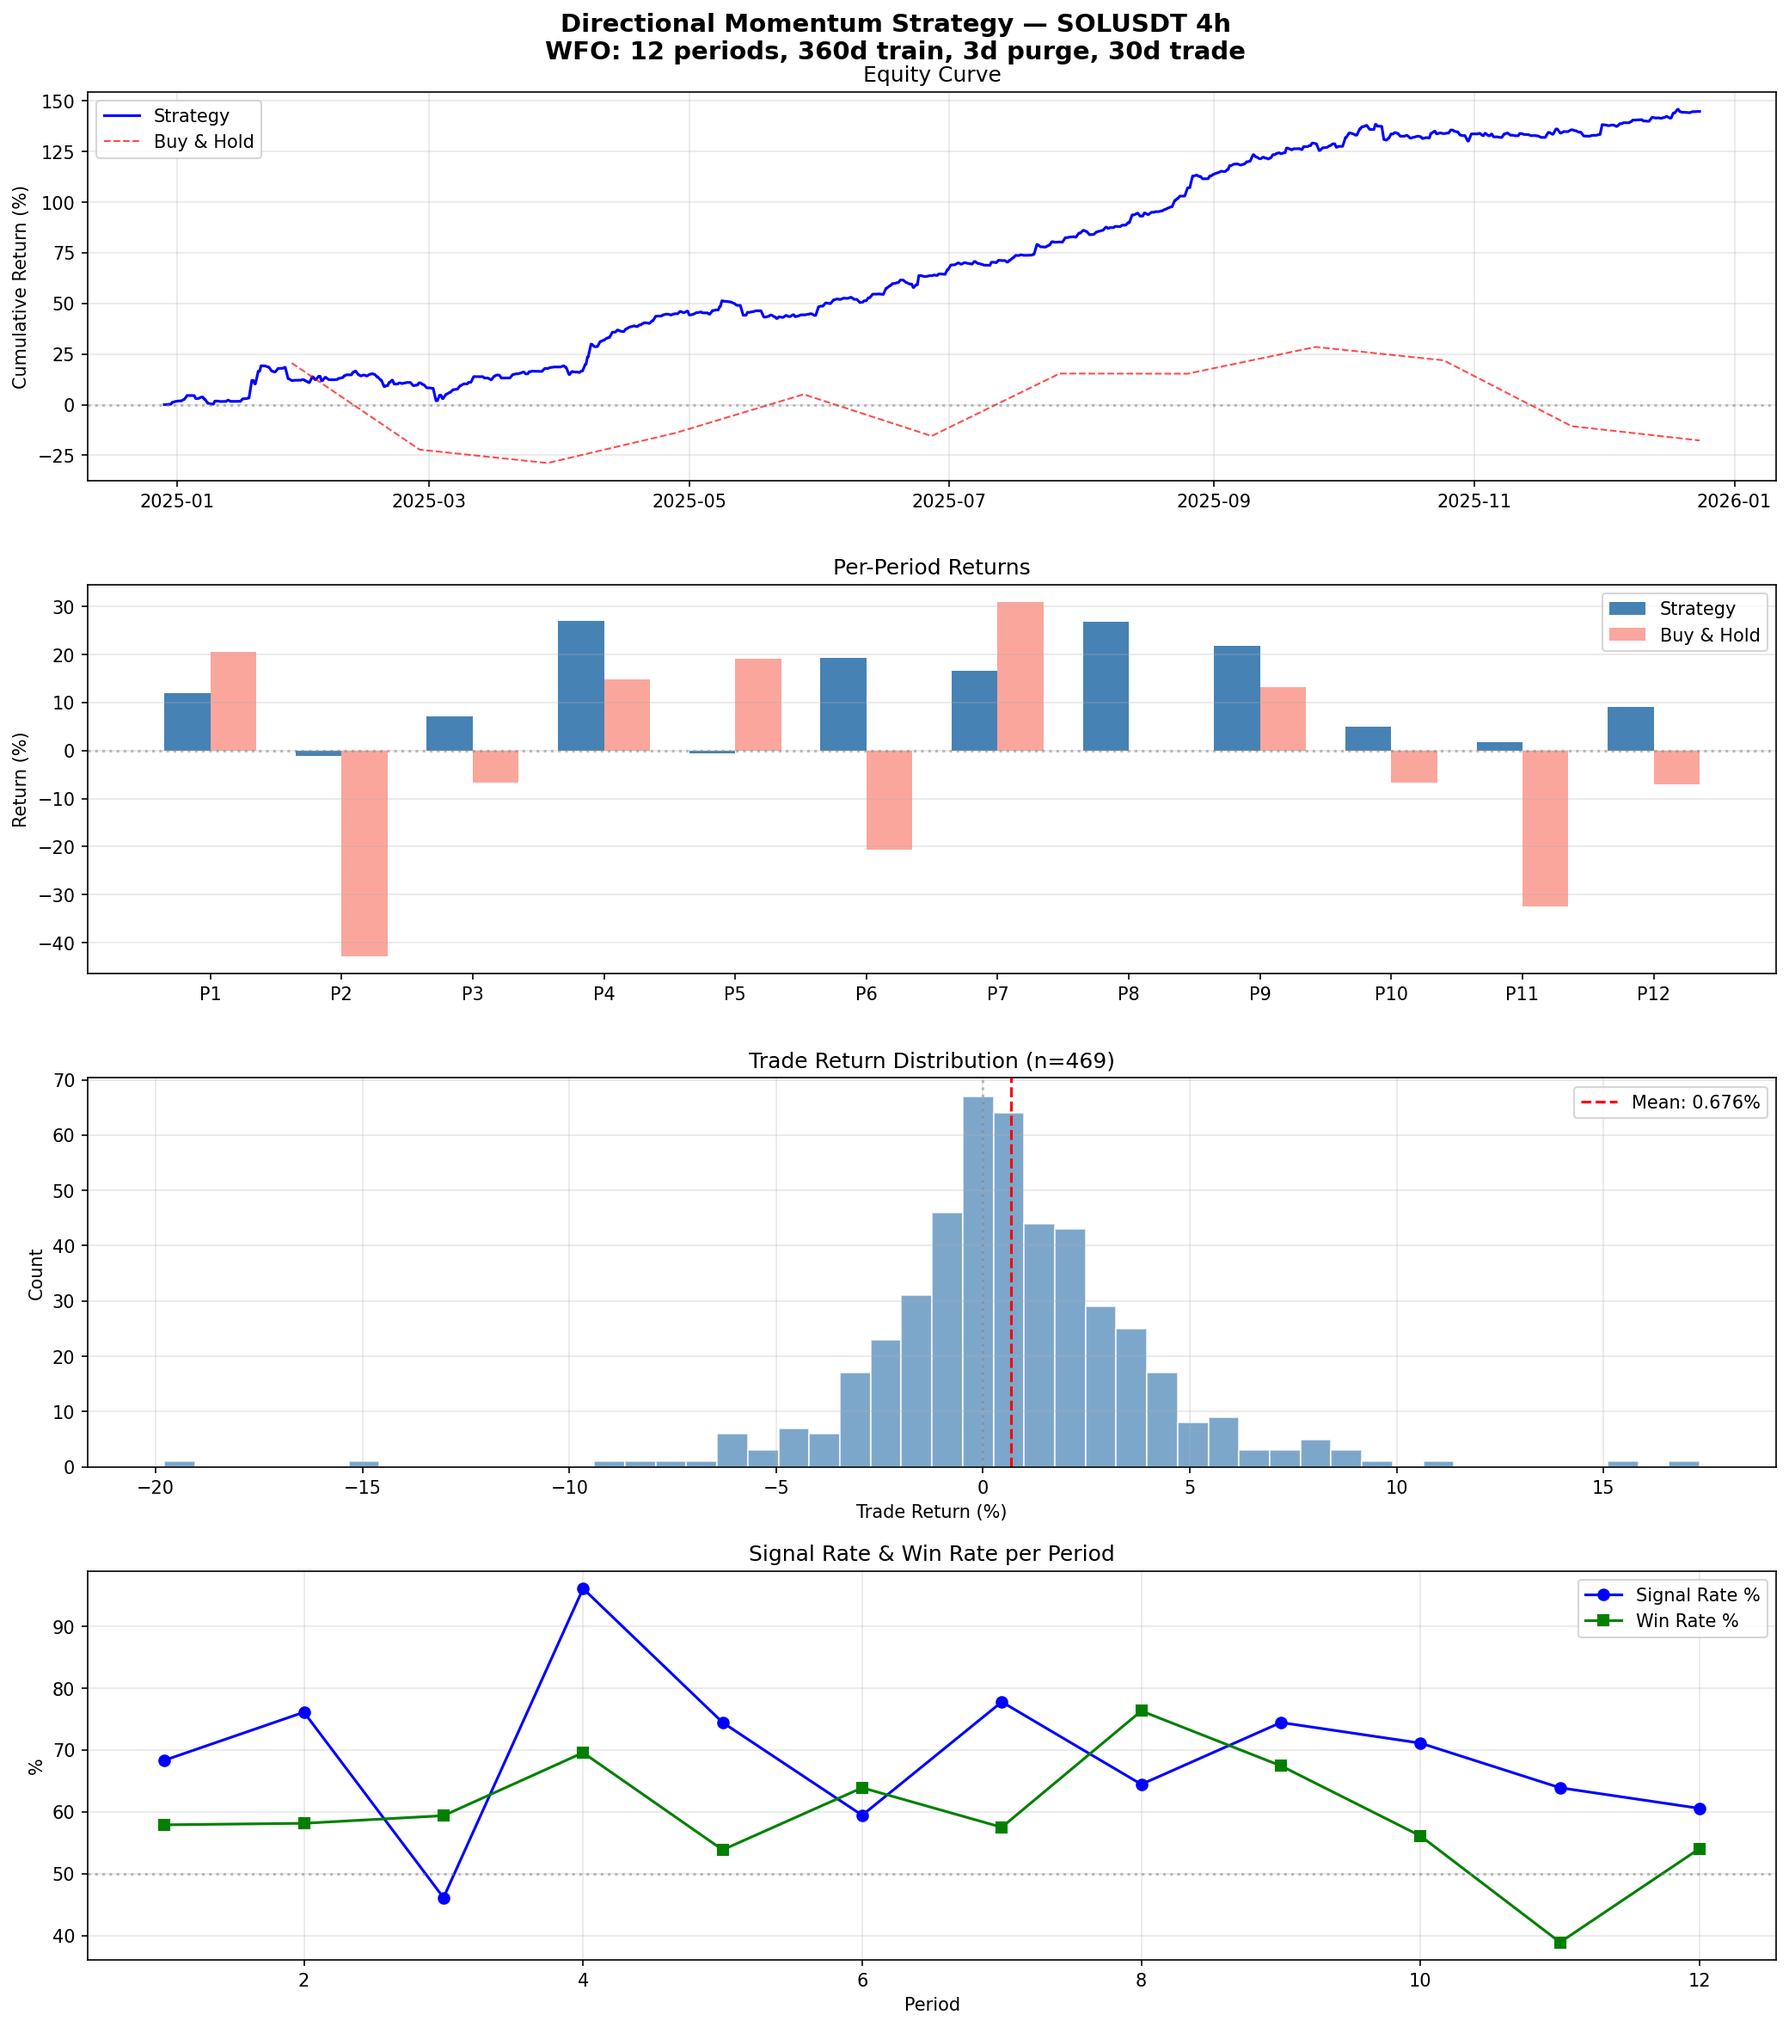
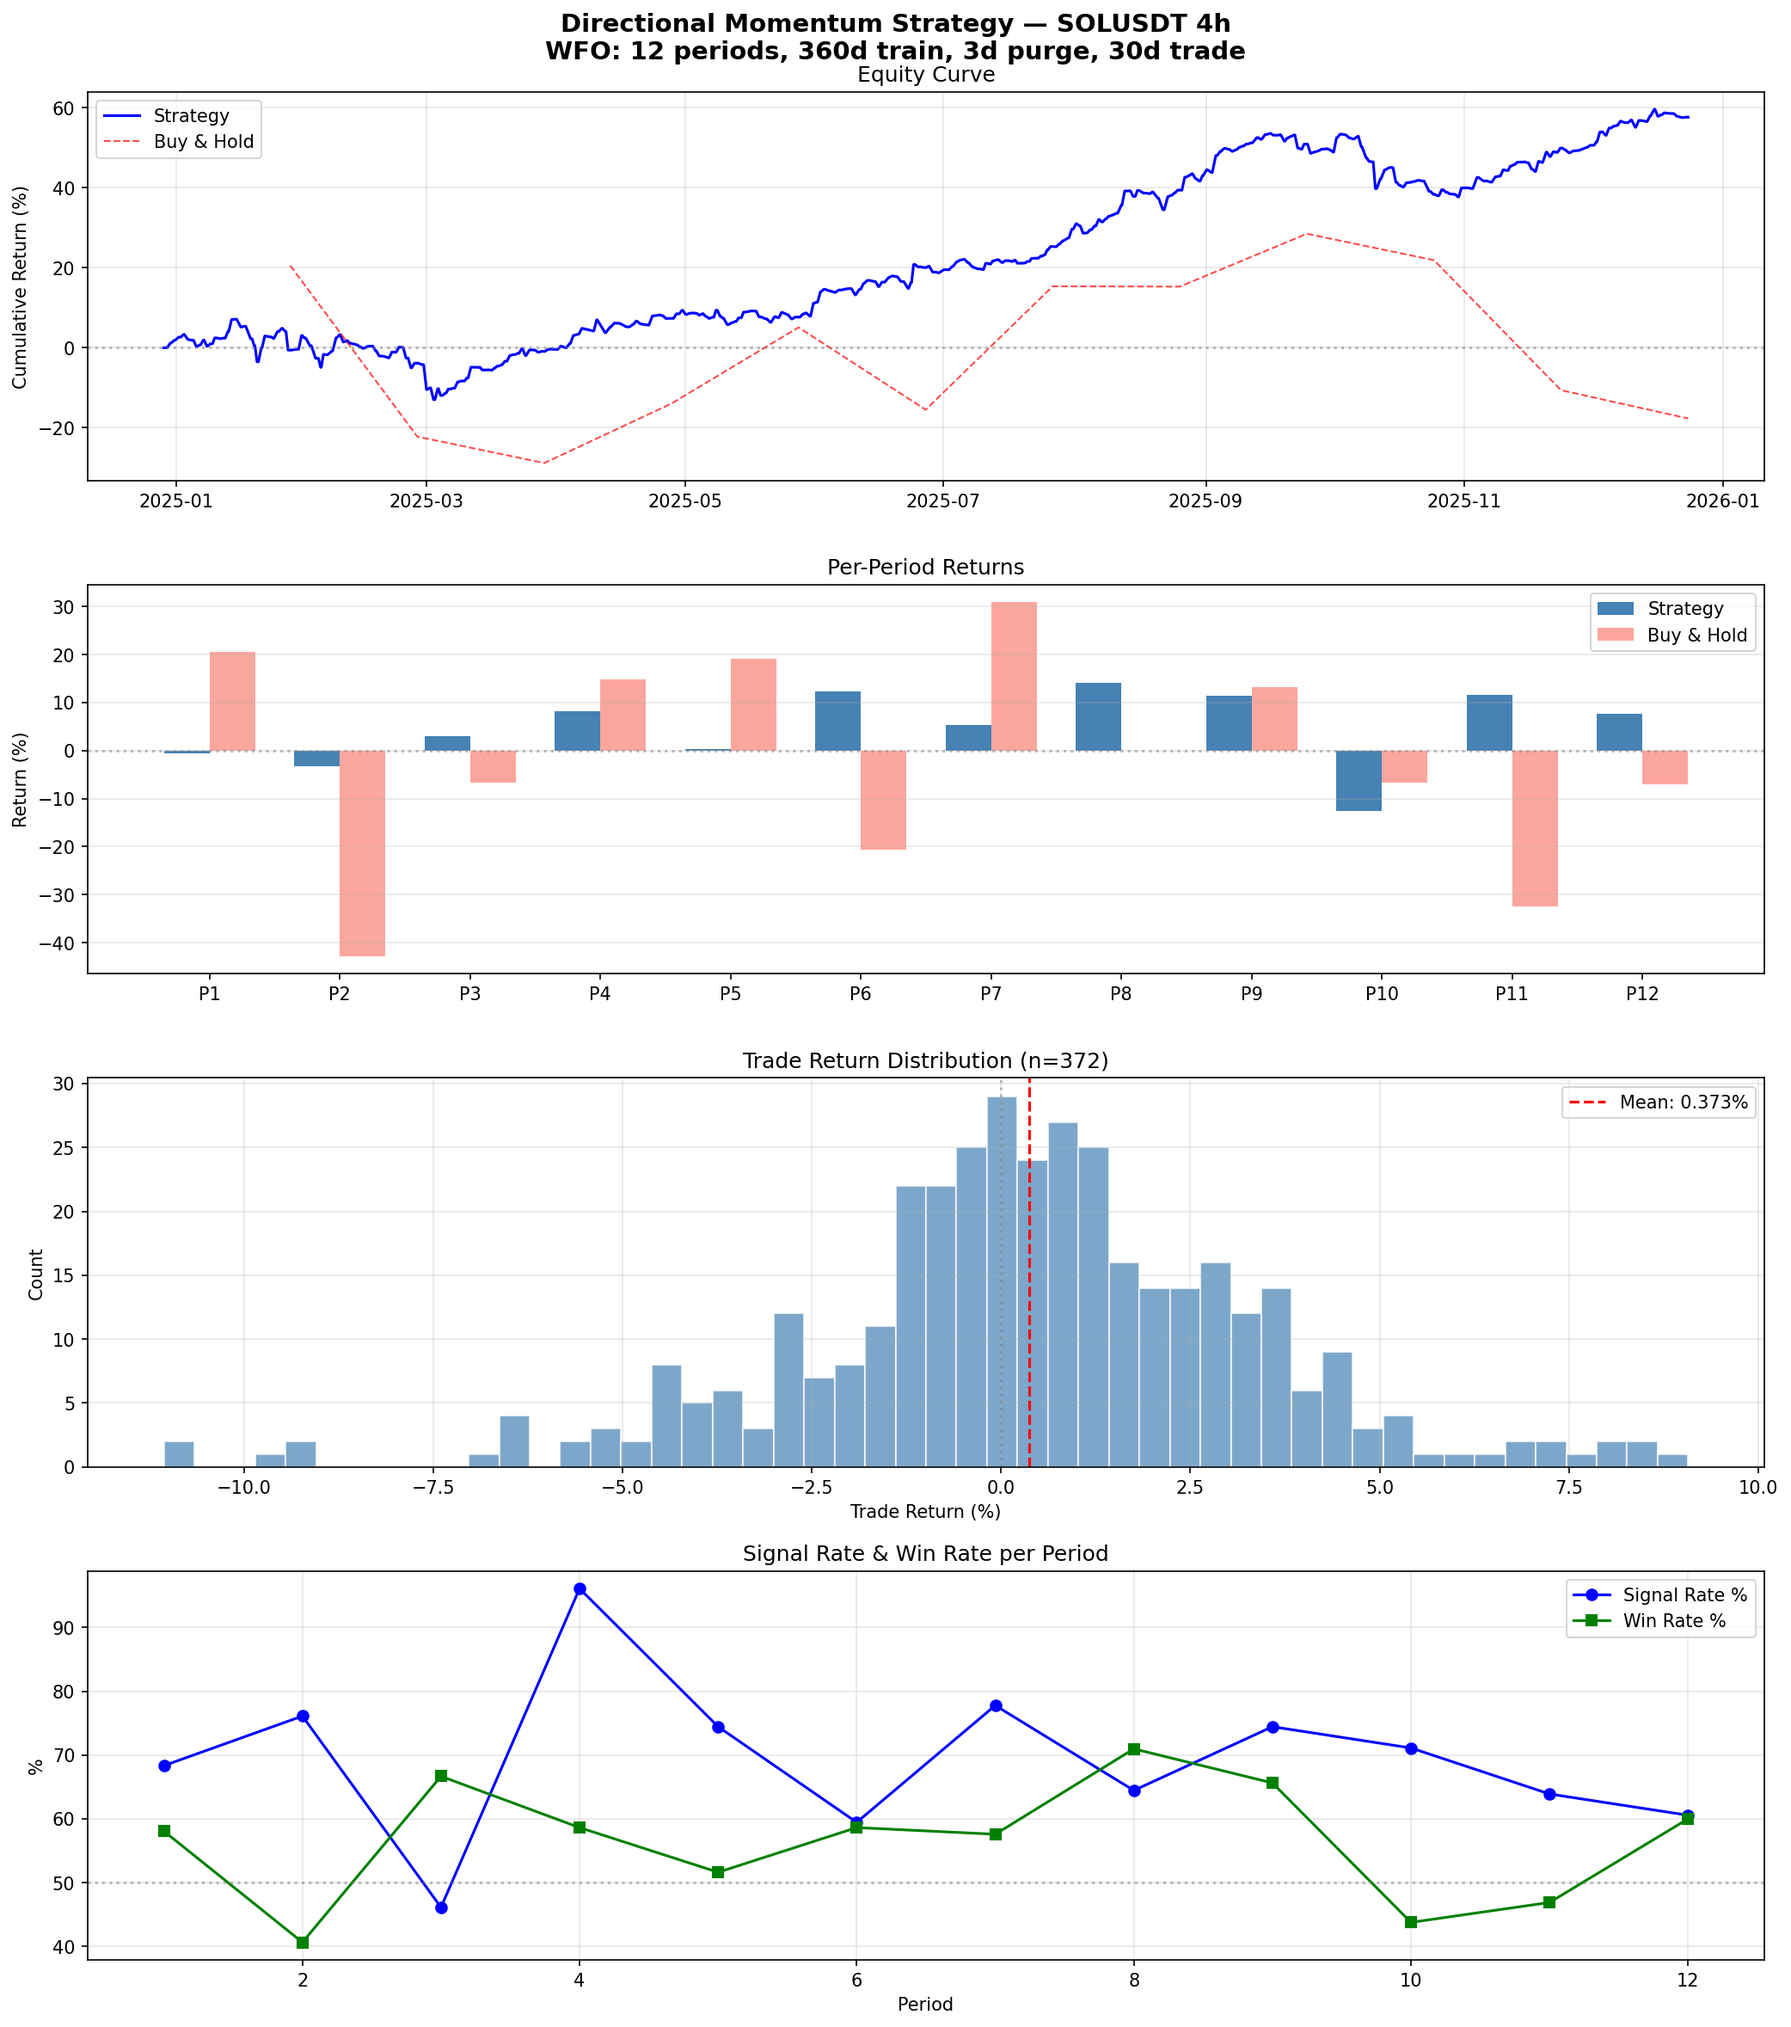
AUDIT FIX: Remove exit price lookahead bias — use open[xb] not close[xb]
Critical bug: exit prices used close_prices[xb] instead of open_prices[xb].
This is lookahead because:
  1. Normal exit: we can't know the close price and exit at it simultaneously
  2. Early exit: reversal detected after bar closes, but exit priced at that
     same close — should be next bar's open

Fix applied to all 4 scripts:
  - strategy_directional_wfo.py
  - strategy_straddle_wfo.py
  - strategy_iterations.py
  - strategy_straddle_iterations.py

Changes:
  - Exit price: close_prices[xb] -> open_prices[xb]
  - Early exit: exit_bar = bar -> exit_bar = bar + 1
  - Normal exit: exit_bar = entry + HOLD -> entry + HOLD (now points to exit bar)
  - Entry guard: bar + HOLD < n -> bar + HOLD + 1 < n

Corrected results (SOLUSDT 4h, 12 periods):
  Directional: +58% net, Sharpe 2.44, PF 1.40, DD -20%, 9/12 pos (was +145%)
  Straddle:    +49% net, Sharpe 1.16, PF 1.18, DD -43%, 8/12 pos (was +267%)

Both still profitable vs B&H (-18%), but edge is much smaller than reported.

diff --git a/microstructure_research/strategy_directional_wfo.py b/microstructure_research/strategy_directional_wfo.py
@@ -559,34 +559,39 @@ def run_period(df, period_idx, sel_start, sel_end, trade_start, trade_end,
 
     for bar in range(n_trade):
         # Early exit: close current position if signal reverses
+        # Reversal detected at bar (after bar closes) -> exit at bar+1 open
         if EARLY_EXIT and bar <= current_exit_bar and len(active_trades) > 0:
             last_trade = active_trades[-1]
             if (signals[bar] != 0 and
                 signals[bar] != last_trade["direction"] and
                 bar > last_trade["entry_bar"]):
-                last_trade["exit_bar"] = bar
-                current_exit_bar = bar
+                early_exit_bar = bar + 1  # exit at NEXT bar's open
+                if early_exit_bar < n_trade:
+                    last_trade["exit_bar"] = early_exit_bar
+                    current_exit_bar = early_exit_bar
 
         # Only enter if no active position and signal exists
-        if bar > current_exit_bar and signals[bar] != 0 and bar + HOLD_BARS < n_trade:
+        # Signal at bar (after bar closes) -> enter at bar+1 open
+        if bar > current_exit_bar and signals[bar] != 0 and bar + HOLD_BARS + 1 < n_trade:
             direction = signals[bar]
             size = sizes[bar]
-            # Entry at next bar's open (realistic execution)
             entry_bar = bar + 1
-            if entry_bar < n_trade:
-                entry_price = open_prices[entry_bar]
-                exit_bar = min(entry_bar + HOLD_BARS, n_trade - 1)
-                current_exit_bar = exit_bar  # block new entries until this expires
+            entry_price = open_prices[entry_bar]
+            # Exit at bar after last hold bar's open (entry + HOLD_BARS)
+            exit_bar = entry_bar + HOLD_BARS
+            if exit_bar >= n_trade:
+                continue
+            current_exit_bar = exit_bar  # block new entries until this expires
 
-                active_trades.append({
-                    "entry_bar": entry_bar,
-                    "exit_bar": exit_bar,
-                    "direction": direction,
-                    "size": size,
-                    "entry_price": entry_price,
-                })
+            active_trades.append({
+                "entry_bar": entry_bar,
+                "exit_bar": exit_bar,
+                "direction": direction,
+                "size": size,
+                "entry_price": entry_price,
+            })
 
-    # Calculate PnL for each trade
+    # Calculate PnL: entry at open[entry_bar], exit at open[exit_bar]
     for trade in active_trades:
         eb = trade["entry_bar"]
         xb = trade["exit_bar"]
@@ -597,7 +602,7 @@ def run_period(df, period_idx, sel_start, sel_end, trade_start, trade_end,
         if xb >= n_trade or ep <= 0:
             continue
 
-        exit_price = close_prices[xb]
+        exit_price = open_prices[xb]  # exit at open of exit bar
         gross_ret = d * (exit_price / ep - 1.0)
         fee = FEE_FRAC
         net_ret = gross_ret - fee

diff --git a/microstructure_research/strategy_iterations.py b/microstructure_research/strategy_iterations.py
@@ -555,39 +555,43 @@ def run_period(df, period_idx, sel_start, sel_end, trade_start, trade_end,
     current_exit_bar = -1
 
     for bar in range(n_trade):
-        # Early exit: close current position if signal reverses
+        # Early exit: reversal at bar (after close) -> exit at bar+1 open
         if early_exit and bar <= current_exit_bar and len(active_trades) > 0:
             last_trade = active_trades[-1]
             if (signals[bar] != 0 and
                 signals[bar] != last_trade["direction"] and
                 bar > last_trade["entry_bar"]):
-                # Close early
-                last_trade["exit_bar"] = bar
-                current_exit_bar = bar
+                early_exit_bar = bar + 1
+                if early_exit_bar < n_trade:
+                    last_trade["exit_bar"] = early_exit_bar
+                    current_exit_bar = early_exit_bar
 
         hp = hold_periods[bar]
-        if bar > current_exit_bar and signals[bar] != 0 and bar + hp < n_trade:
+        # Signal at bar (after close) -> enter at bar+1 open
+        if bar > current_exit_bar and signals[bar] != 0 and bar + hp + 1 < n_trade:
             entry_bar = bar + 1
-            if entry_bar < n_trade:
-                entry_price = open_prices[entry_bar]
-                exit_bar = min(entry_bar + hp, n_trade - 1)
-                current_exit_bar = exit_bar
-                active_trades.append({
-                    "entry_bar": entry_bar,
-                    "exit_bar": exit_bar,
-                    "direction": signals[bar],
-                    "size": sizes[bar],
-                    "entry_price": entry_price,
-                    "hold": hp,
-                })
+            entry_price = open_prices[entry_bar]
+            exit_bar = entry_bar + hp
+            if exit_bar >= n_trade:
+                continue
+            current_exit_bar = exit_bar
+            active_trades.append({
+                "entry_bar": entry_bar,
+                "exit_bar": exit_bar,
+                "direction": signals[bar],
+                "size": sizes[bar],
+                "entry_price": entry_price,
+                "hold": hp,
+            })
 
+    # PnL: entry at open[entry_bar], exit at open[exit_bar]
     for trade in active_trades:
         eb, xb = trade["entry_bar"], trade["exit_bar"]
         d, sz, ep = trade["direction"], trade["size"], trade["entry_price"]
         hp = trade["hold"]
         if xb >= n_trade or ep <= 0:
             continue
-        exit_price = close_prices[xb]
+        exit_price = open_prices[xb]  # exit at open of exit bar
         gross_ret = d * (exit_price / ep - 1.0)
         net_ret = gross_ret - FEE_FRAC
         trade_returns.append(net_ret)

diff --git a/microstructure_research/strategy_straddle_wfo.py b/microstructure_research/strategy_straddle_wfo.py
@@ -518,34 +518,41 @@ def run_period(df, period_idx, sel_start, sel_end, trade_start, trade_end,
 
     for bar in range(n_trade):
         # Early exit on signal reversal
+        # Reversal detected at bar (after bar closes) -> exit at bar+1 open
         if EARLY_EXIT and bar <= current_exit_bar and len(active_trades) > 0:
             last_trade = active_trades[-1]
             if (signals[bar] != 0 and
                 signals[bar] != last_trade["direction"] and
                 bar > last_trade["entry_bar"]):
-                last_trade["exit_bar"] = bar
-                current_exit_bar = bar
+                early_exit_bar = bar + 1  # exit at NEXT bar's open
+                if early_exit_bar < n_trade:
+                    last_trade["exit_bar"] = early_exit_bar
+                    current_exit_bar = early_exit_bar
 
-        if bar > current_exit_bar and signals[bar] != 0 and bar + HOLD_BARS < n_trade:
+        # Signal at bar (after bar closes) -> enter at bar+1 open
+        if bar > current_exit_bar and signals[bar] != 0 and bar + HOLD_BARS + 1 < n_trade:
             entry_bar = bar + 1
-            if entry_bar < n_trade:
-                entry_price = open_prices[entry_bar]
-                exit_bar = min(entry_bar + HOLD_BARS, n_trade - 1)
-                current_exit_bar = exit_bar
-                active_trades.append({
-                    "entry_bar": entry_bar,
-                    "exit_bar": exit_bar,
-                    "direction": signals[bar],
-                    "size": sizes[bar],
-                    "entry_price": entry_price,
-                })
+            entry_price = open_prices[entry_bar]
+            # Exit at bar after last hold bar's open (entry + HOLD_BARS)
+            exit_bar = entry_bar + HOLD_BARS
+            if exit_bar >= n_trade:
+                continue
+            current_exit_bar = exit_bar
+            active_trades.append({
+                "entry_bar": entry_bar,
+                "exit_bar": exit_bar,
+                "direction": signals[bar],
+                "size": sizes[bar],
+                "entry_price": entry_price,
+            })
 
+    # Calculate PnL: entry at open[entry_bar], exit at open[exit_bar]
     for trade in active_trades:
         eb, xb = trade["entry_bar"], trade["exit_bar"]
         d, sz, ep = trade["direction"], trade["size"], trade["entry_price"]
         if xb >= n_trade or ep <= 0:
             continue
-        exit_price = close_prices[xb]
+        exit_price = open_prices[xb]  # exit at open of exit bar
         gross_ret = d * (exit_price / ep - 1.0)
         net_ret = gross_ret - FEE_FRAC
         trade_returns.append(net_ret)

diff --git a/microstructure_research/strategy_straddle_iterations.py b/microstructure_research/strategy_straddle_iterations.py
@@ -502,31 +502,38 @@ def run_period(df, period_idx, sel_start, sel_end, trade_start, trade_end,
     n_wins = 0
 
     for bar in range(n_trade):
+        # Early exit: reversal at bar (after close) -> exit at bar+1 open
         if early_exit and bar <= current_exit_bar and len(active_trades) > 0:
             last = active_trades[-1]
             if (signals[bar] != 0 and signals[bar] != last["direction"] and
                 bar > last["entry_bar"]):
-                last["exit_bar"] = bar
-                current_exit_bar = bar
+                early_exit_bar = bar + 1
+                if early_exit_bar < n_trade:
+                    last["exit_bar"] = early_exit_bar
+                    current_exit_bar = early_exit_bar
 
-        if bar > current_exit_bar and signals[bar] != 0 and bar + hold_bars < n_trade:
+        # Signal at bar (after close) -> enter at bar+1 open
+        if bar > current_exit_bar and signals[bar] != 0 and bar + hold_bars + 1 < n_trade:
             entry_bar = bar + 1
-            if entry_bar < n_trade:
-                current_exit_bar = min(entry_bar + hold_bars, n_trade - 1)
-                active_trades.append({
-                    "entry_bar": entry_bar,
-                    "exit_bar": current_exit_bar,
-                    "direction": signals[bar],
-                    "size": sizes[bar],
-                    "entry_price": open_prices[entry_bar],
-                })
+            exit_bar = entry_bar + hold_bars
+            if exit_bar >= n_trade:
+                continue
+            current_exit_bar = exit_bar
+            active_trades.append({
+                "entry_bar": entry_bar,
+                "exit_bar": exit_bar,
+                "direction": signals[bar],
+                "size": sizes[bar],
+                "entry_price": open_prices[entry_bar],
+            })
 
+    # PnL: entry at open[entry_bar], exit at open[exit_bar]
     for trade in active_trades:
         eb, xb = trade["entry_bar"], trade["exit_bar"]
         d, sz, ep = trade["direction"], trade["size"], trade["entry_price"]
         if xb >= n_trade or ep <= 0:
             continue
-        exit_price = close_prices[xb]
+        exit_price = open_prices[xb]  # exit at open of exit bar
         gross_ret = d * (exit_price / ep - 1.0)
         net_ret = gross_ret - FEE_FRAC
         trade_returns.append(net_ret)
